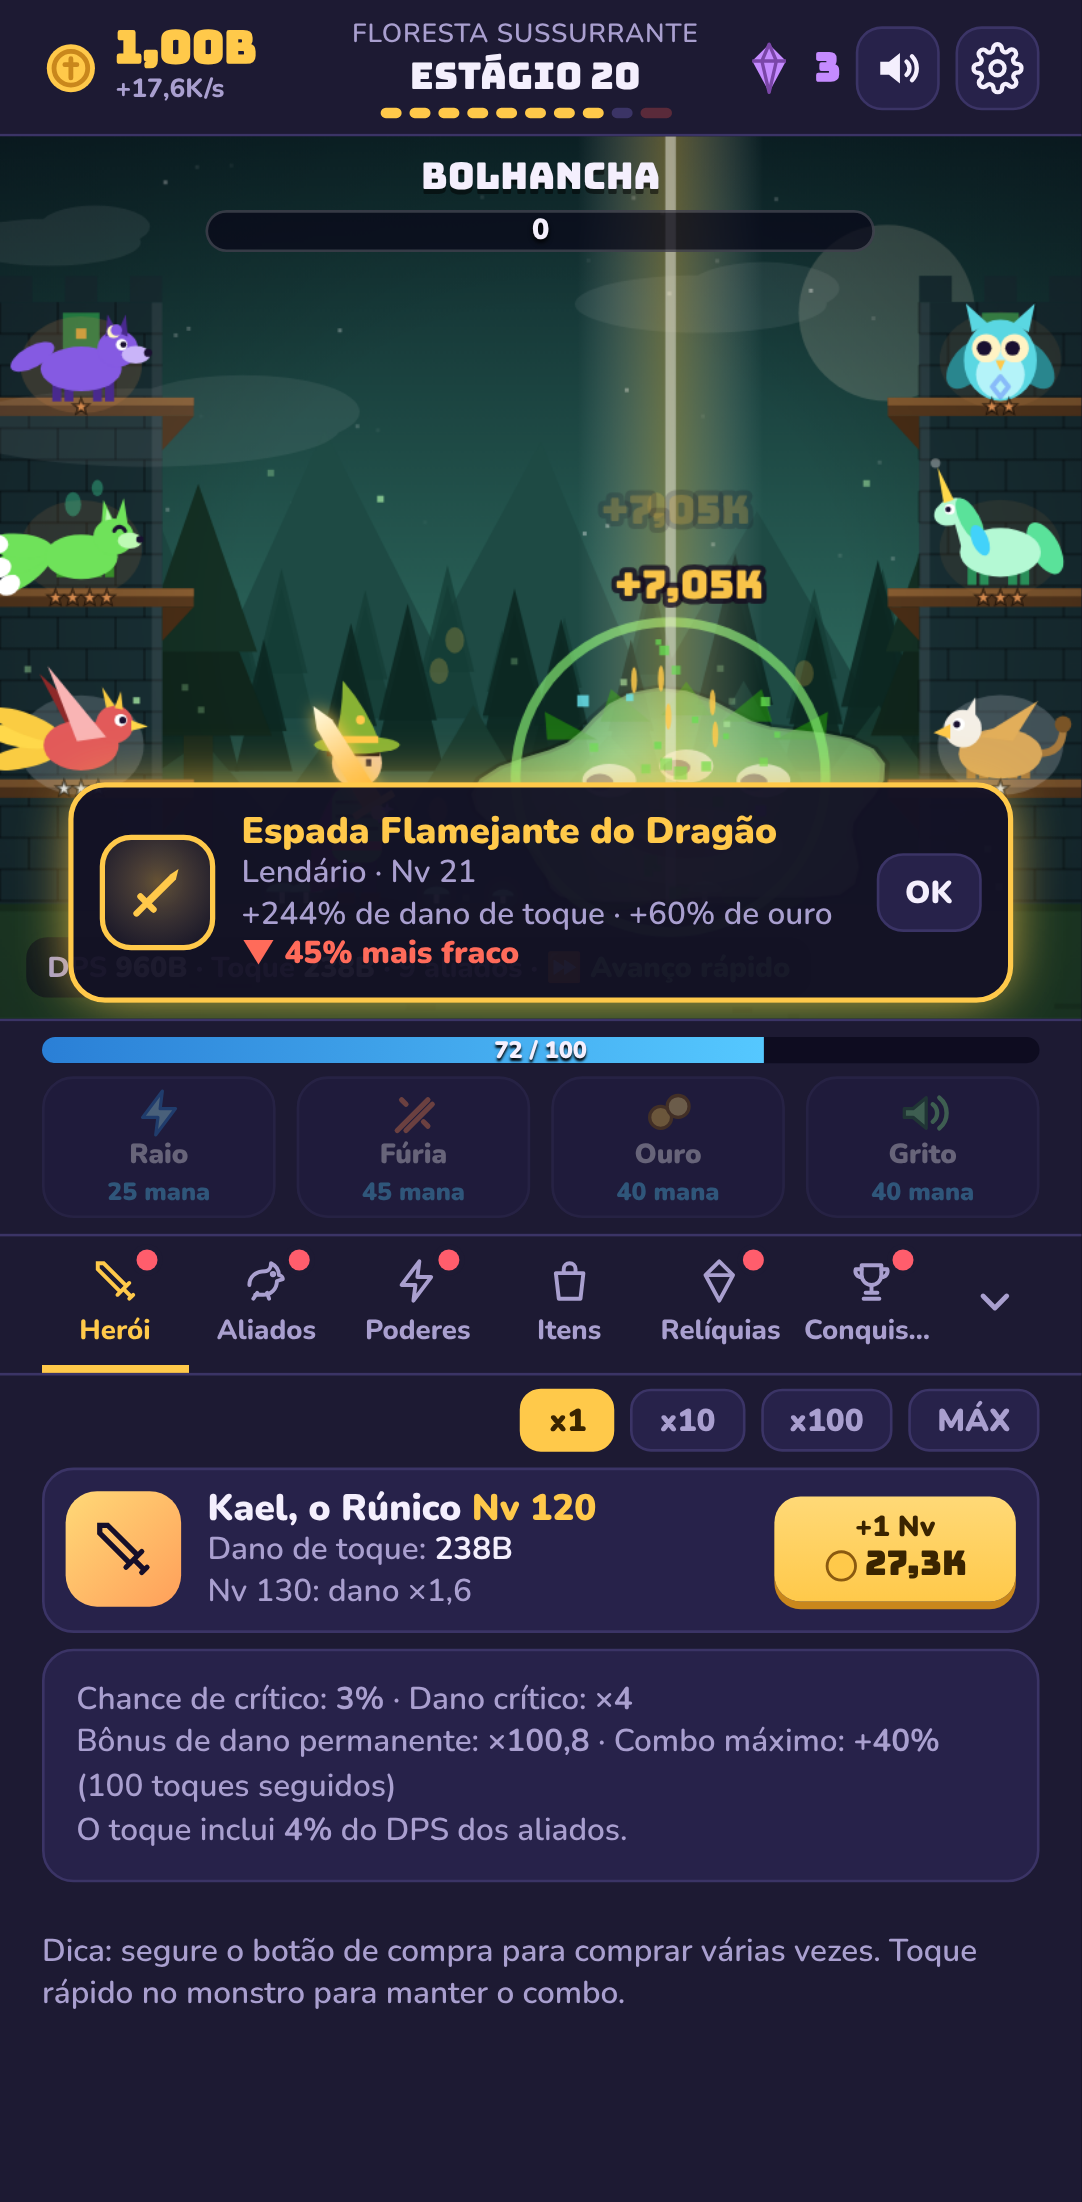
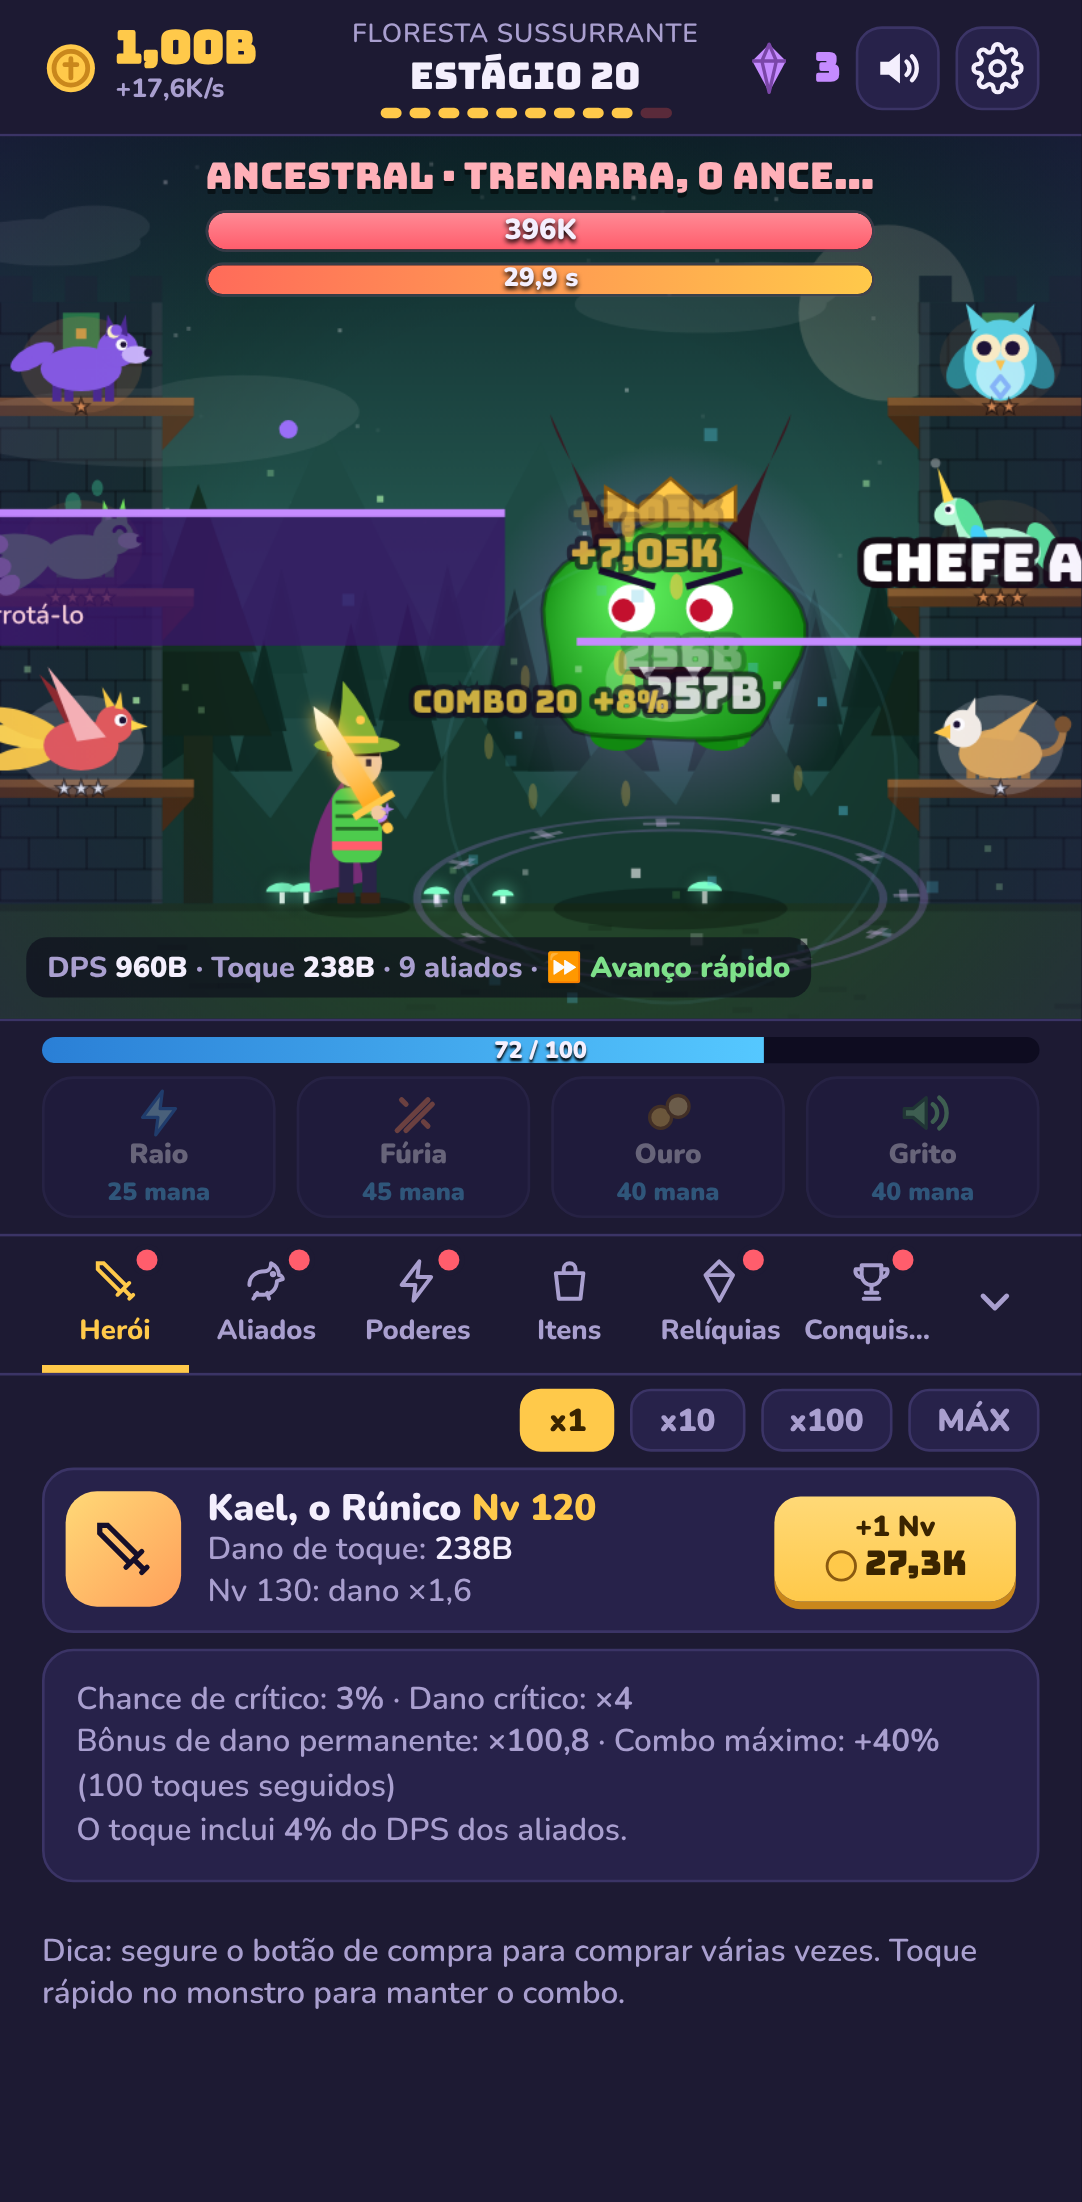
Adiciona Códice das Almas e árvore de talentos
- Artefato Códice das Almas: +20% de essências ao renascer por nível,
  custo crescente (×1,9 por nível)
- Árvore de talentos com 4 ramos (Lâmina, Bestiário, Arcano, Fortuna),
  4 níveis e 24 talentos; pontos por recorde e renascimento, permanentes,
  com redistribuição
- Save v6 com validação dos talentos; testes ajustados e 2 testes novos

Claude-Session: https://claude.ai/code/session_0182wX4F9bqXEHrE8Hu4N6xH

Changed region(s): [[0.0, 0.0618, 1.0, 0.4632]]

diff --git a/jogo-lamina-runica/README.md b/jogo-lamina-runica/README.md
@@ -12,6 +12,7 @@ Abra `jogo-lamina-runica/index.html` no navegador (ou publique esta pasta no Git
 - **Herói**: aumenta o dano de toque (×1,6 a cada 10 níveis).
 - **Aliados**: 16 criaturas místicas sorteadas a cada novo jogo (fênix, grifo, dragão, raposa espiritual, unicórnio, coruja arcana, tartaruga ancestral, lobo lunar, serpente alada e cervo estelar). Causam dano mesmo com o jogo fechado (×2 no nível 10 e ×4 a cada 25 níveis). A cena mostra só as 6 mais fortes, para não poluir a tela.
 - **Poderes**: Raio Celeste, Fúria das Lâminas, Chuva de Ouro e Grito de Guerra. Gastam mana e têm recarga.
+- **Códice das Almas**: artefato permanente que dá **+20% de essências ao renascer por nível**, sem limite. Cada nível custa ×1,9 o anterior (4, 8, 15, 28, 53… essências).
 - **Relíquias**: a partir do estágio 40 você pode **Renascer** e ganhar essências. Cada essência dá +10% de dano para sempre e serve para comprar artefatos permanentes.
 - 8 regiões com cenário próprio, monstros gerados proceduralmente e o raro **Baú Vivo**, que solta 12× mais ouro.
 - **Muros com plataformas** nas laterais do mapa: as criaturas mais fortes ficam nelas (2 a 4 por lado, conforme o tamanho da tela). Nos níveis 50, 100 e 200 a criatura evolui de aparência.
@@ -27,6 +28,21 @@ Abra `jogo-lamina-runica/index.html` no navegador (ou publique esta pasta no Git
 - **Avanço rápido**: quando seus aliados matam um monstro em menos de 0,1 s, cada vitória conta 4 monstros (o ouro dos pulados é pago). Aparece "⏩ Avanço rápido" embaixo da cena.
 - Os monstros ficam pelo menos 0,3 s na tela: os aliados só atacam depois que o monstro termina de entrar, e o seu toque vale desde o primeiro instante.
 - Atalhos no computador: `Espaço` ataca, `1` a `4` usam os poderes.
+
+## Árvore de talentos
+
+Fica na aba **Poderes → Talentos**. Os pontos vêm do progresso: **1 a cada 5 estágios de recorde** e **2 a cada renascimento**. Os talentos **ficam para sempre**, mesmo depois de renascer. Dá para **redistribuir** todos os pontos (a primeira vez é grátis, depois custa 2 essências).
+
+São 4 ramos, cada um com 4 níveis. Um nível só abre depois de gastar pontos no mesmo ramo: o nível 2 com 5 pontos, o 3 com 15 e o 4 com 25. Cada melhoria custa 1, 2, 3 ou 4 pontos, conforme o nível.
+
+| Ramo | Nível 1 | Nível 2 | Nível 3 | Nível 4 |
+| --- | --- | --- | --- | --- |
+| **Lâmina** (toque) | Golpe Afiado (+25% toque), Olhos de Lince (+1% crítico) | Ritmo de Batalha (+10% no combo máximo), Execução (+20% contra chefes) | Lâmina Fantasma (1 ataque automático por segundo por nível) | Golpe Final (+50% dano crítico) |
+| **Bestiário** (aliados) | Laço Místico (+25% aliados), Treinador (aliados 2% mais baratos) | Matilha (+1% por aliado no grupo), Brado Ancestral (Grito +5 s) | Fúria Selvagem (+30% dos aliados em chefes) | Despertar Celestial (aliados ×2, ×3, ×4) |
+| **Arcano** (poderes) | Poço de Mana (+10 mana), Fluxo Arcano (+0,1 mana/s) | Eco do Trovão (Raio +30%), Foco (recarga 4% mais rápida) | Tempestade de Lâminas (Fúria +2 ataques/s) | Arquimago (poderes duram +10%) |
+| **Fortuna** (ouro e itens) | Bolsos Fundos (+20% ouro), Faro de Tesouro (+0,5% de Baú Vivo) | Amigo dos Espíritos (+8% frequência, +20% prêmio), Coleta Noturna (+20% ouro offline) | Caçador de Relíquias (+3% de item por chefe) | Sorte Grande (Lendário garantido 2 itens antes) |
+
+Os valores são por nível de talento.
 
 ## Equipamentos
 

diff --git a/jogo-lamina-runica/AUDITORIA.md b/jogo-lamina-runica/AUDITORIA.md
@@ -107,3 +107,10 @@ Novidades: **avanço rápido** (aliados matam em menos de 0,1 s → cada vitóri
 **Resultado na simulação.** Primeira jornada: estágio 20 em 4,5 min (~7 toques por monstro), estágio 40 em 22 min (~90 toques, aliados ~5 s), trava entre 40 e 60, que é o ponto de renascer. Depois de renascer, os estágios iniciais passam depressa (até o 80 em ~8 min, ou ~3 min com itens Épicos), com cada monstro visível por pelo menos 0,3 s.
 
 **Efeito em saves existentes.** Nenhum valor salvo muda. No mesmo estágio, os monstros ficam mais resistentes (no estágio 80, ~13× mais vida) e os itens ficam mais fracos (um Épico de nível 50 passa de ×5,8 para ×2,8). Quem estava muito avançado pode travar num chefe e precisar juntar ouro ou renascer, como esperado num clicker.
+
+## Códice das Almas e árvore de talentos (01/11/2026, save v6)
+
+- **Códice das Almas** (artefato): +20% de essências ao renascer por nível, sem limite; custo 4 × 1,9^nível (arredondado para cima).
+- **Árvore de talentos**: 4 ramos × 4 níveis, 24 talentos. Pontos = ⌊recorde ÷ 5⌋ + 2 × renascimentos (calculados, não gravados); talentos gravados em `talents: {id: nível}`. Abertura dos níveis por pontos gastos no ramo (0/5/15/25); custo por melhoria 1/2/3/4. Redistribuir: grátis na primeira vez, depois 2 essências (`stats.respecs`).
+- **Save v6**: só acrescenta `talents` e `stats.respecs`. A validação remove talentos inexistentes e limita o nível ao máximo; o teto de mana passou a considerar o Poço de Mana. Os testes 2 e 4 passaram a usar `consts.VERSION` em vez de 5 fixo, e o teste 2 aceita estatísticas novas desde que comecem em 0.
+- **Testes**: 25 de 25 (2 novos: validação dos talentos e efeito do Códice). No navegador (Pixel 7): aprender, abrir nível 2, Códice 38 → 53 essências no nível 2, redistribuir e recarregar, sem erros.
